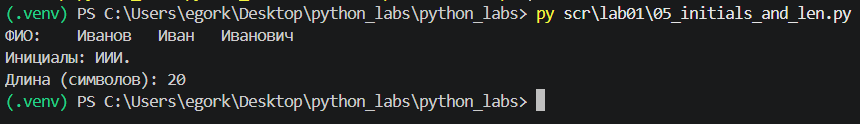
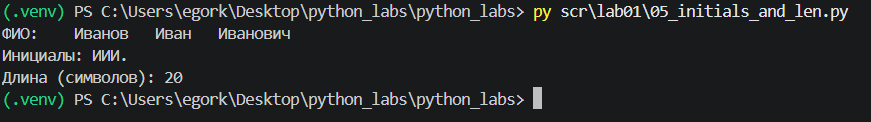
modified:   images/lab01/05_initials_and_len.png 	modified:   scr/lab01/05_initials_and_len.py 	modified:   scr/lab01/README.md

diff --git a/scr/lab01/05_initials_and_len.py b/scr/lab01/05_initials_and_len.py
@@ -1,2 +1,2 @@
-name = [i for i in input("ФИО: ").split()]
+name = input("ФИО: ").split()
 print(f'Инициалы: {"".join(i[0] for i in name)}.\nДлина (символов): {sum(len(i) for i in name)+(len(name)-1)}')

diff --git a/scr/lab01/README.md b/scr/lab01/README.md
@@ -26,7 +26,7 @@
 
 ### Задание 5
 
-...
+В пятом номере я считал входные данные, а потом убрал ненужные пробелы функцией **split**, которая сделала список **name** из трех элементов. В команде **print** я взял первую букву каждого элемнта списка **name** и превратил их в строку без пробелов с помощью **join**. Длину я нашел путем сложения суммы длин всех элементов списка **name** и разности количества эл-ов спика и единицы.
 
 ![fifth_task](/images/lab01/05_initials_and_len.png)
 
